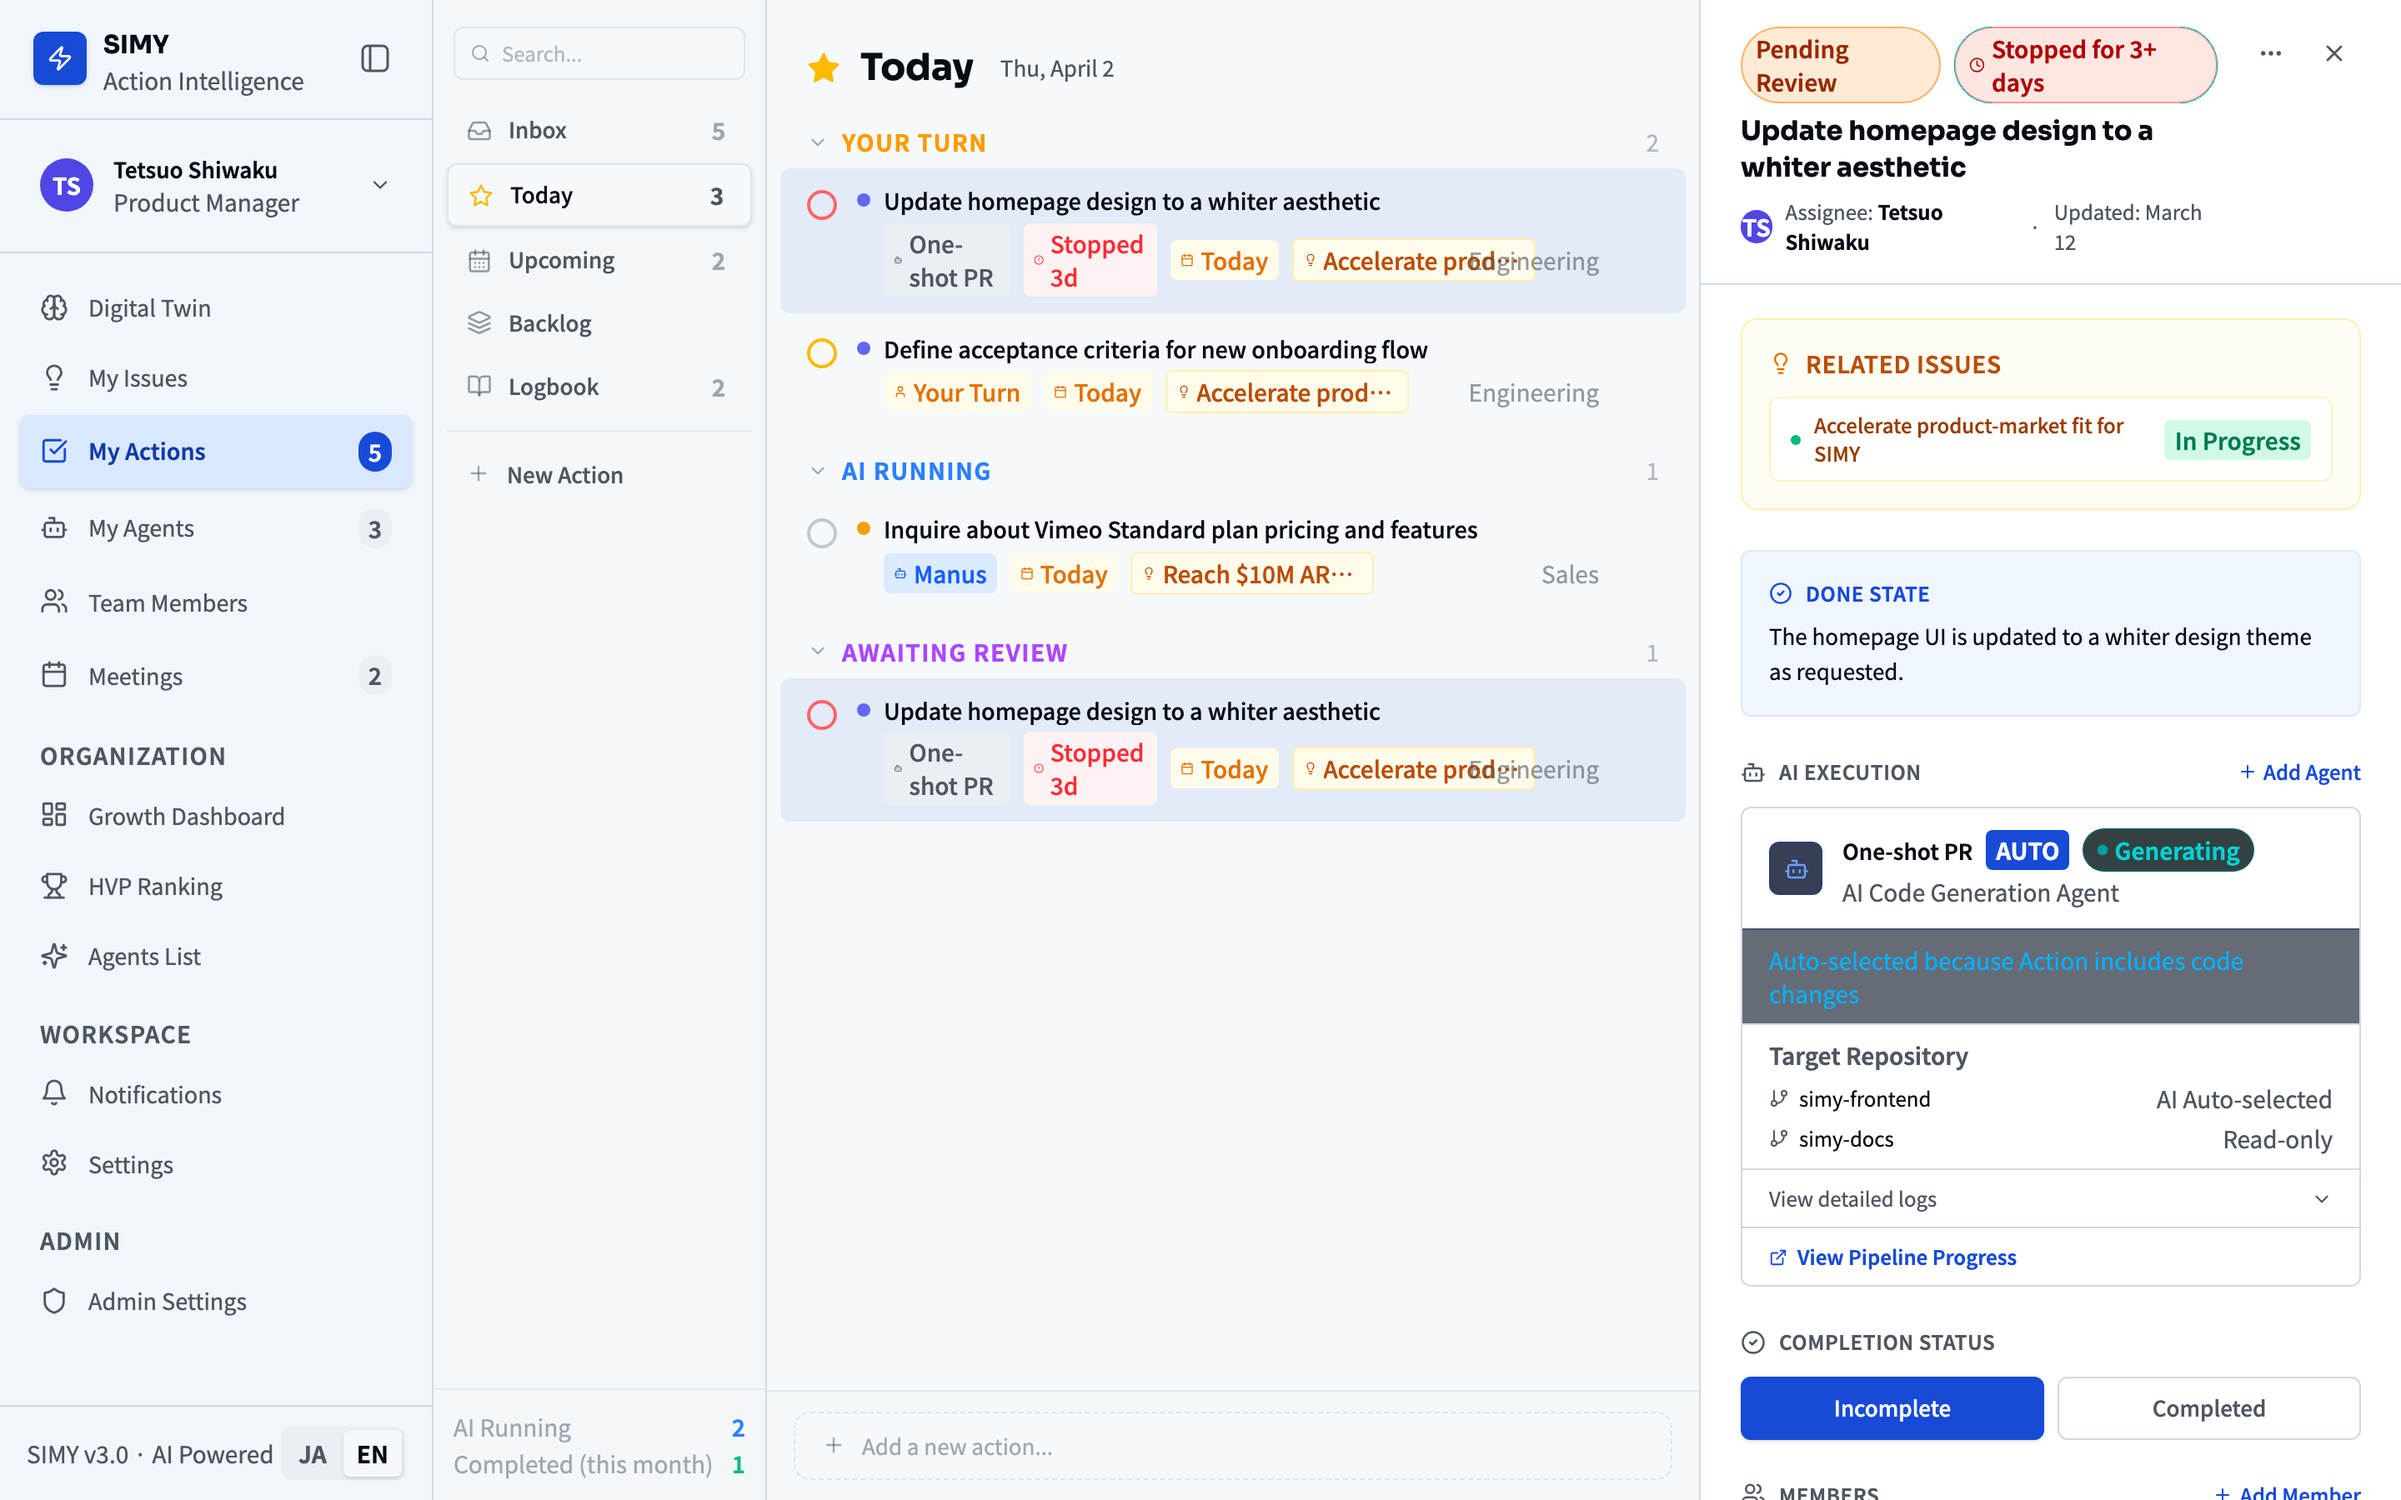
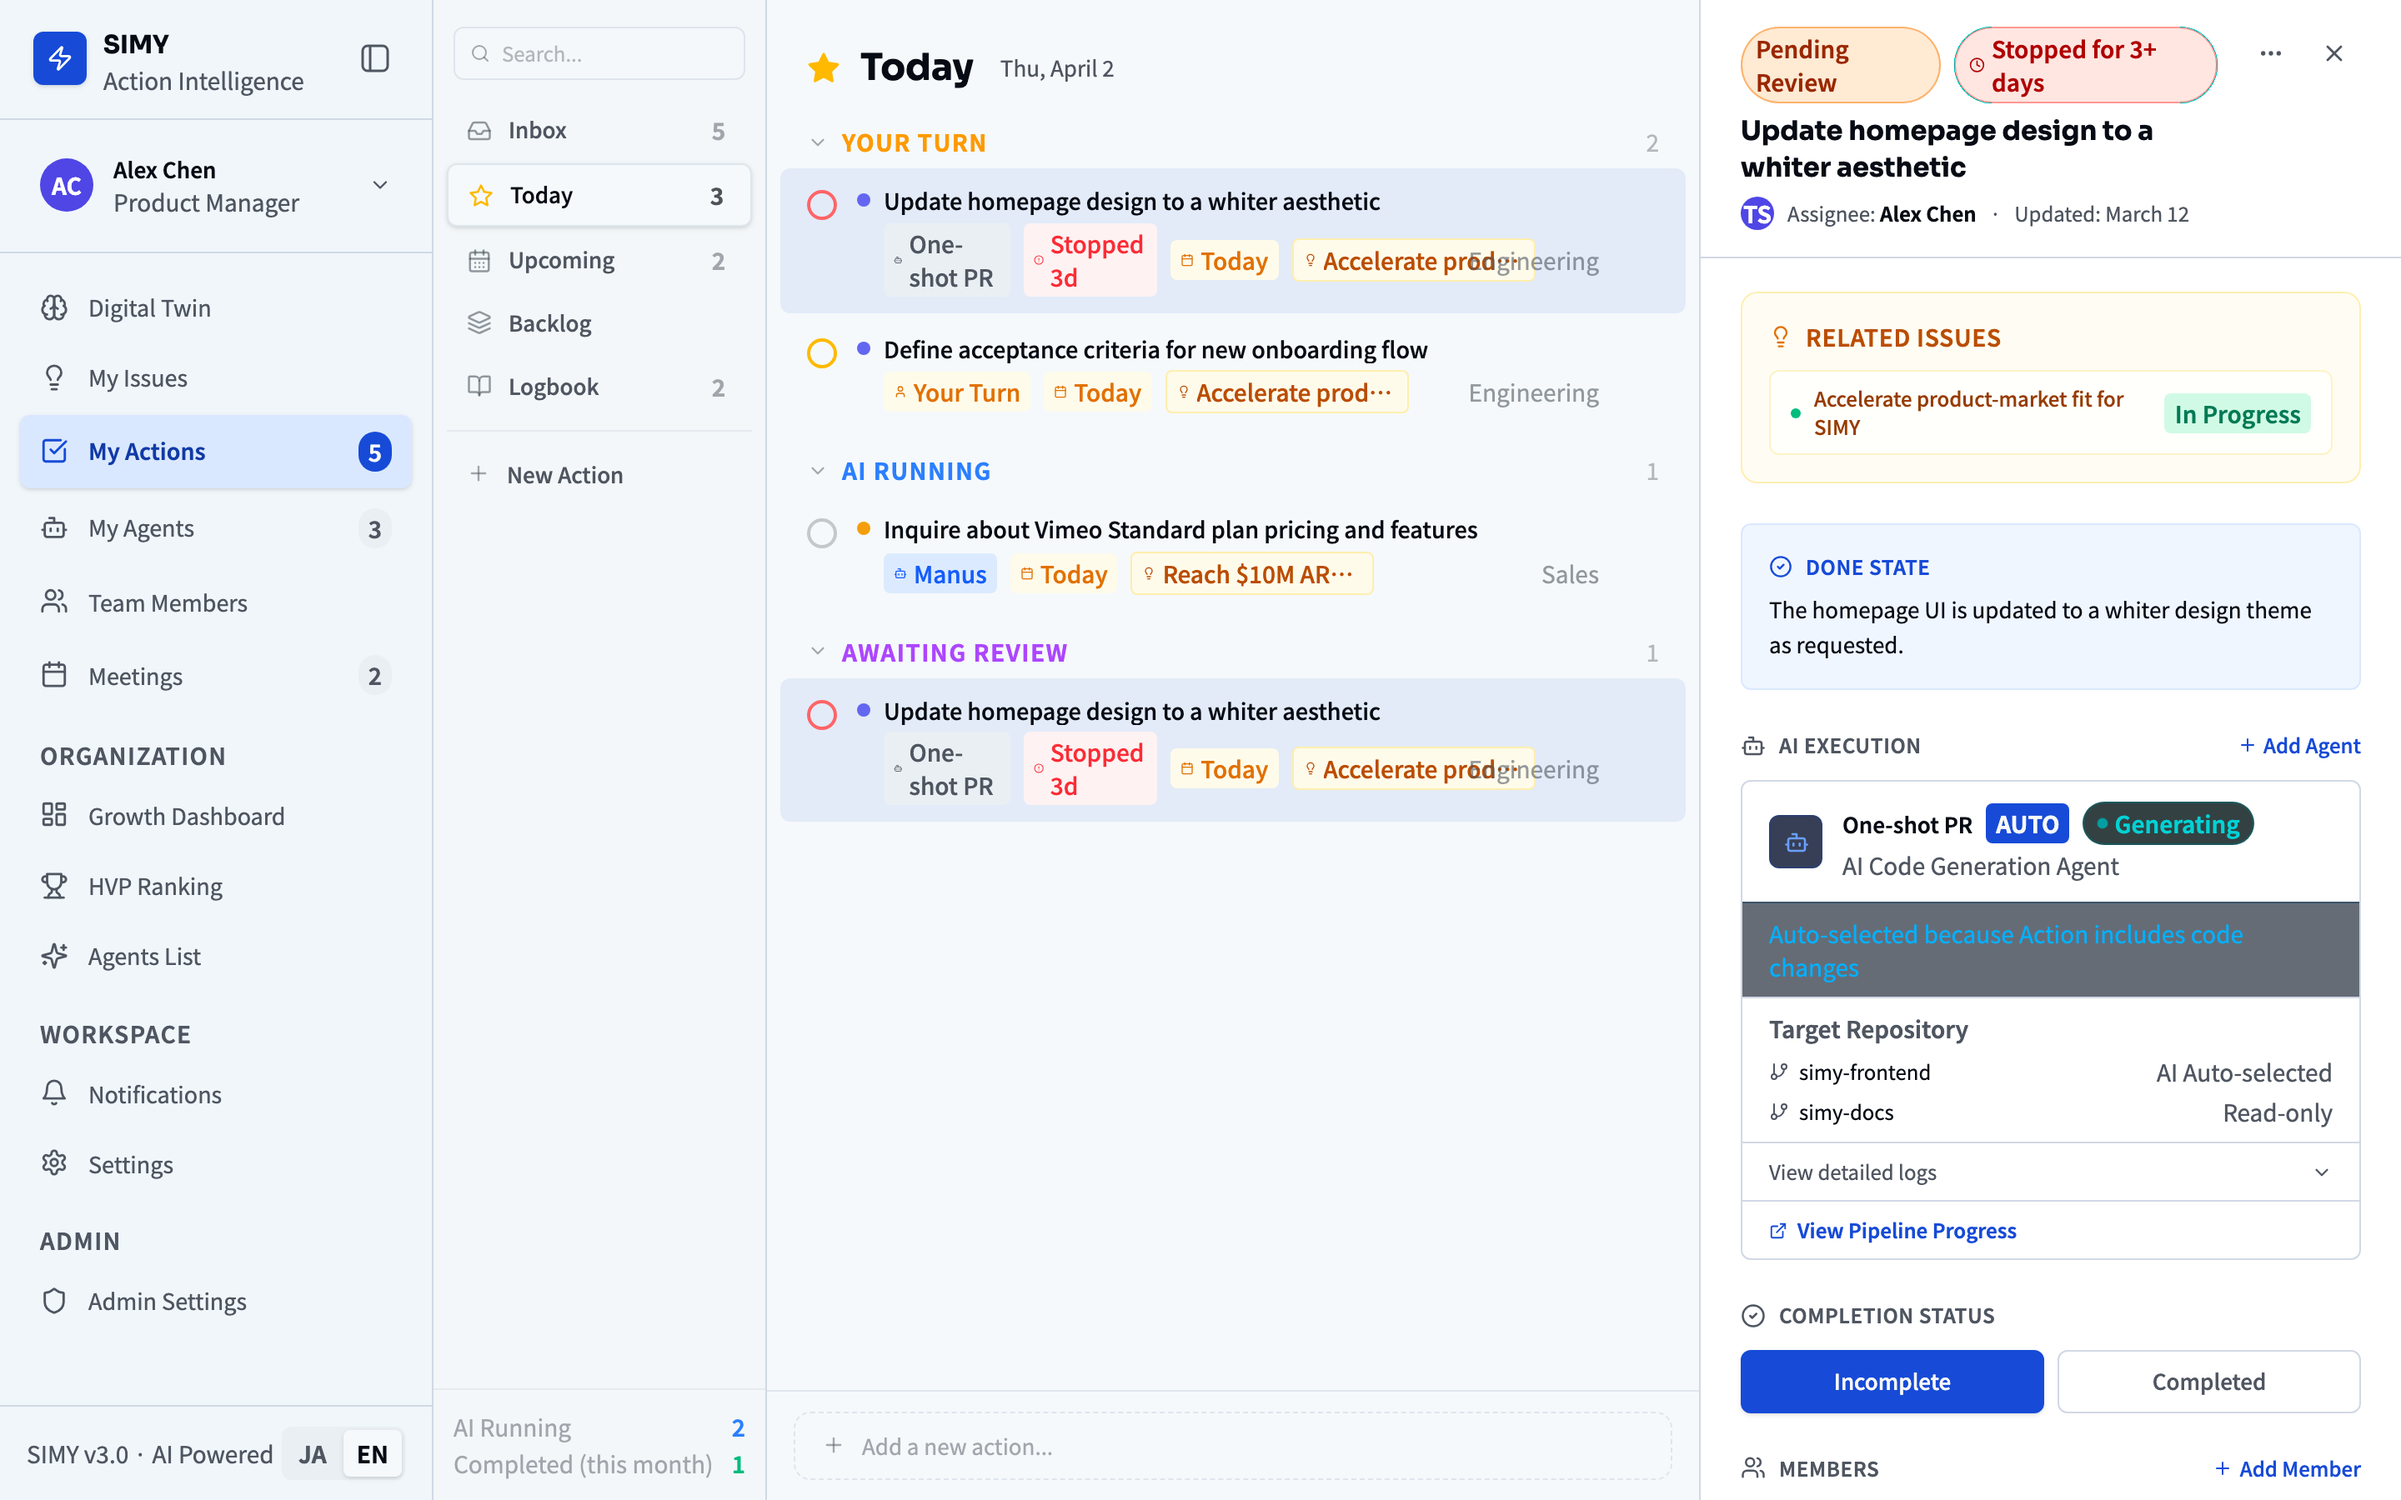
Re-shoot Screen Studio demo with Alex Chen (Product Manager) persona
Match the home page's "Product Manager / 150-person tech company"
persona card. The prior demo shots (Tetsuo Shiwaku, Q2 Strategy
meeting, "PR drafted from the meeting") didn't line up with that
persona's narrative — after every planning session, someone spends
hours turning discussion into a structured roadmap.

Changes:
- Recaptured all 4 scenes with the pc-ui profile renamed to
  Alex Chen / Product Manager (avatar AC).
- Rewrote Screen Studio scene captions in site/i18n.js to the
  planning-session → structured roadmap → ready before standup
  narrative from the home page persona card.

diff --git a/site/i18n.js b/site/i18n.js
@@ -631,17 +631,17 @@
   function initScreenStudioAnimation(wrap) {
     var SCENES = [
       { img: '/assets/demo-shots/01-twin.png',      from: [8, 82],  to: [38, 56],
-        main: '"Hi Tetsuo." \u2014 the Twin opens with a suggested question.',
-        sub:  'Morning check-in with the Digital Twin. It already knows what\'s due today.' },
+        main: 'Alex opens the Twin before the planning session.',
+        sub:  'Product Manager at a 150-person tech company. The Twin already knows what needs decisions today.' },
       { img: '/assets/demo-shots/02-meetings.png',  from: [94, 12], to: [62, 44],
-        main: 'Q2 Strategy meeting ends \u2014 every "Must Decide" captured.',
-        sub:  'AI briefing, open issues, and owner assignments \u2014 no manual notes.' },
+        main: 'Planning session ends \u2014 every decision captured.',
+        sub:  'SIMY generates a structured roadmap, assigns owners, and sends summaries automatically.' },
       { img: '/assets/demo-shots/03-actions.png',   from: [92, 86], to: [36, 42],
-        main: 'A PR is already drafted from the meeting.',
-        sub:  'My Actions turns the decision into a ready-to-review ticket.' },
+        main: 'Roadmap items become assigned, ready-to-review tickets.',
+        sub:  'Hours of turning discussion into a roadmap \u2014 gone.' },
       { img: '/assets/demo-shots/04-dashboard.png', from: [6, 14],  to: [48, 48],
         main: 'Growth Dashboard: North Star 1,247 (+12.4%) \u00b7 Retention 71%.',
-        sub:  'The outcome lands on the dashboard \u2014 roadmap ready before standup.' }
+        sub:  'Roadmap ready before the next standup.' }
     ];
     var HOLD_MS  = 3000;
     var FADE_MS  = 500;
